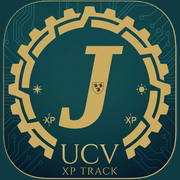
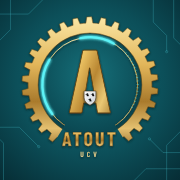
Add files via upload

diff --git a/index.html b/index.html
@@ -39,7 +39,7 @@ window.addEventListener('unhandledrejection', fallbackStyle);
 <meta name="apple-mobile-web-app-title" content="Atout">
 <meta name="apple-mobile-web-app-status-bar-style" content="default">
 <meta name="mobile-web-app-capable" content="yes">
[2 lines of base64/hex data omitted]
 <meta name="theme-color" content="#F1F3FA">
 <title>Atout</title>
 <style>:root{
@@ -201,7 +201,7 @@ body{--flash-gain:rgba(40,170,95,.42)!important;--flash-loss:rgba(214,58,66,.38)
 #layer .sheet.small{max-height:70vh;overflow-y:auto;-webkit-overflow-scrolling:touch}/* ===== Fiche élève : récapitulatif du jour ===== */
 .today{background:var(--surface-2);border-radius:22px;padding:12px 16px;margin:8px 0 12px}.tdtot{display:flex;align-items:center;gap:12px;font-weight:800}.tdtot span{flex:1;color:var(--soft);font-size:13px;text-transform:uppercase;letter-spacing:.06em}.tdtot b{font-size:20px;font-variant-numeric:tabular-nums}.tdtot .pos{color:var(--st-gain-strong)}.tdtot .neg{color:var(--st-loss)}.tdlist{margin-top:8px}.tdlist summary{cursor:pointer;color:var(--soft);font-size:14px;font-weight:600}/* ===== Présentation : total d'XP et nom de la classe bien visibles ===== */
 .ptitle b{font-size:clamp(20px,2.8vw,32px);font-weight:800}.ptitle .pxptot{font-size:clamp(18px,2.4vw,28px);font-weight:800;color:var(--ink);font-variant-numeric:tabular-nums}/* Réglages : une couleur par bloc, lisible en clair comme en sombre */
-.sblock{--cc:#6B7A99;margin-bottom:4px}.sbh{display:flex;align-items:center;gap:12px;color:var(--ink);font-weight:800;margin:16px 0 8px}.sbh::before{content:"";width:12px;height:12px;border-radius:999px;background:var(--cc);flex:none}.sblock .mrow{box-shadow:inset 3px 0 0 var(--cc),inset 0 0 0 2px var(--line)}.sblock .mrow .mi{background:color-mix(in srgb,var(--cc) 16%,transparent);color:color-mix(in srgb,var(--cc) 62%,var(--ink))}.sblock .mrow .mc{color:var(--soft)}/* Podium et widgets : règles rétablies (classes générées dynamiquement) */.pwidget.w-vide{background:transparent;border:1.5px dashed var(--line-2)}.gtile.gn{border:1.5px dashed var(--line-2);background:transparent}/* Icône « plan fait » : sans fond, couleur liée à celle du texte qui la contient */
+.sblock{--cc:#6B7A99;margin-bottom:4px}.sbh{display:flex;align-items:center;gap:12px;color:var(--ink);font-weight:800;margin:16px 0 8px}.sbh::before{content:"";width:12px;height:12px;border-radius:999px;background:var(--cc);flex:none}.sblock .mrow{box-shadow:inset 3px 0 0 var(--cc),inset 0 0 0 2px var(--line)}.sblock .mrow .mi{background:color-mix(in srgb,var(--cc) 16%,transparent);color:color-mix(in srgb,var(--cc) 62%,var(--ink))}.sblock .mrow .mc{color:var(--soft)}/* Podium et widgets : règles rétablies (classes générées dynamiquement) */.pl.p2{--pc:#AEB6C4}.pwidget.w-vide{background:transparent;border:1.5px dashed var(--line-2)}.gtile.gn{border:1.5px dashed var(--line-2);background:transparent}/* Icône « plan fait » : sans fond, couleur liée à celle du texte qui la contient */
 .pdone, .pdone svg{color:currentColor!important}.pdone{background:none!important;width:auto!important;height:auto!important;padding:0!important;margin-left:6px!important;border-radius:0!important;box-shadow:none!important;opacity:1!important}.pdone svg{width:14px;height:14px;stroke:currentColor}/* ===== Emploi du temps ===== */.cnext{font-size:13px;color:var(--card-ink);margin-top:4px;font-weight:600}.flowgrid{display:grid;grid-template-columns:repeat(var(--cols,2),minmax(0,1fr));gap:10px}.fdate{grid-column:1/-1;font-weight:800;color:var(--ink);margin-top:10px;text-transform:capitalize}.ttgrid{display:grid;gap:6px;margin-top:10px}.ttrow{display:grid;grid-template-columns:70px repeat(5,minmax(0,1fr));gap:6px;align-items:stretch}.ttlab{display:flex;flex-direction:column;justify-content:center;font-weight:800;font-size:13px;color:var(--ink)}.ttlab small{color:var(--soft);font-weight:600}.ttc{min-height:46px;border:0;border-radius:14px;background:var(--surface-2);color:var(--ink);font:inherit;font-size:13px;padding:6px;cursor:pointer;box-shadow:inset 0 0 0 1px var(--line);width:100%}.ttc.empty{color:var(--soft)}.ttc.ex{background:transparent;box-shadow:none;color:var(--soft);cursor:default}.ttc small{display:block;font-size:11px;color:var(--soft)}.ttone{display:flex;flex-direction:column;gap:4px;min-width:0}.ttsplit{display:grid;grid-template-columns:1fr 1fr;gap:4px;min-width:0}.ttsplit .ttx{grid-column:1/-1}.ttx{border:0;border-radius:10px;background:var(--surface);color:var(--soft);font:inherit;font-size:11px;padding:4px;cursor:pointer}/* Flux des cours : les lignes sont des cartes de classe (style du design) */
 .frow.first{outline:3px solid var(--lv);outline-offset:2px}.frow.now .cmeta{font-weight:800}/* Fenêtre des nouveautés */
 .news{max-width:520px;width:calc(100vw - 32px);max-height:80vh;overflow-y:auto;text-align:left}.news h3{margin:0 0 12px;font-size:20px;color:var(--ink)}.news ul{margin:0 0 16px;padding-left:24px;color:var(--ink);font-size:15px;line-height:1.45}.news li{margin:8px 0}.news .nchk{display:flex;align-items:center;gap:12px;font-size:15px;color:var(--ink);margin:8px 0 16px}.news .nchk input{width:20px;height:20px}
@@ -3228,8 +3228,9 @@ function ttPick(day, sid, wk) {
 
 /* ===================== NOUVEAUTÉS ===================== */
 /* Identifiant de la série de nouveautés : change à chaque nouvelle série */
-const NEWS_ID = 'news-2026-11-19-groupes-haut';
+const NEWS_ID = 'news-2026-11-19-logo';
 const NEWS_ITEMS = [
+  'Nouveau logo Atout : engrenage doré et grand A avec le blason, ATOUT et UCV.',
   'Fiche élève : Groupe accepté et Éviter d’être avec sont en haut de la fiche, avant les XP. Coche plusieurs élèves pour former un groupe toujours placé dans le même îlot.',
   'Plan : bouton Rotation (écran Plan et widget Plan). Chaque appui décale les groupes d’un îlot, A va en B… F en A, sans changer qui est avec qui.',
   'Question flash : les révisions suivent l’emploi du temps. Une question revient à la première séance à partir de sa date, et la carte affiche la date de cette séance.',

diff --git a/sw.js b/sw.js
@@ -1,7 +1,7 @@
 /* Atout hors ligne : les fichiers de l'appli sont gardés sur l'appareil.
    Réseau d'abord (les mises à jour arrivent), copie locale ensuite.
    Le lecteur de PDF (PDF.js, cdnjs) est aussi gardé après sa première utilisation. */
-const CACHE = 'atout-cache-v1';
+const CACHE = 'atout-cache-v2';
 const FILES = ['./', './index.html', './manifest.webmanifest', './icon-192.png', './icon-512.png', './apple-touch-icon.png'];
 const PDFJS = 'https://cdnjs.cloudflare.com/ajax/libs/pdf.js/';
 self.addEventListener('install', e => {
